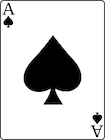
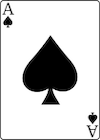
Fix two card image sizes, keep Stockpile cards face down

diff --git a/src/code/game/golf/Stockpile.java b/src/code/game/golf/Stockpile.java
@@ -1,7 +1,5 @@
 package code.game.golf;
 
-import java.awt.event.ActionEvent;
-import java.awt.event.ActionListener;
 import java.awt.event.MouseEvent;
 import java.awt.event.MouseListener;
 import java.util.ArrayList;
@@ -21,13 +19,16 @@ import code.game.gui.GUI;
  * @author Matt Ferrera
  */
 @SuppressWarnings("serial")
-public class Stockpile extends JLabel implements ActionListener, MouseListener, Pile {
+public class Stockpile extends JLabel implements MouseListener, Pile {
 
 	/**
 	 * Cards is the ArrayList containing all Card objects in the Stockpile pile.
 	 */
 	private ArrayList<Card> cards;
-	Golf game;
+	/**
+	 * The current game instance passed from Golf init
+	 */
+	private Golf game;
 	
 	/**
 	 * The Stockpile constructor takes all of the deck not disbursed to tableaus and sets it to the cards field.
@@ -93,15 +94,20 @@ public class Stockpile extends JLabel implements ActionListener, MouseListener, 
 		
 		Card card = getCard();
 		this.cards.remove(0);
-		// Set new top card face up
+		
+		// Set new top card face up & set new icon
 		if (getNumCards() != 0) {
-			getCard().setFaceUp();
 			this.setIcon(getCard().getIcon());
 		}
 		
 		return card;
 	}
 
+	/**
+	 * When clicked, the stockpile checks if it needs to flip the top
+	 * card over if it has not yet been clicked. Following cards are set
+	 * face up and are moved to the homecell pile with click.
+	 */
 	@Override
 	public void mouseClicked(MouseEvent e) {
 		if (getNumCards() == 0) {
@@ -109,42 +115,30 @@ public class Stockpile extends JLabel implements ActionListener, MouseListener, 
 			return;
 		}
 		
-		if (!getCard().isFaceUp()) {
-			getCard().setFaceUp();
-			this.setIcon(getCard().getIcon());
-			return;
-		}
+		// Set the card going to homecell pile face up
+		getCard().setFaceUp();
 		
 		this.game.getHomecell().addCard(takeCard(), true);
 	}
 
+	/**
+	 * This method is not used.
+	 */
 	@Override
-	public void mousePressed(MouseEvent e) {
-		// TODO Auto-generated method stub
-		
-	}
-
+	public void mousePressed(MouseEvent e) {}
+	/**
+	 * This method is not used.
+	 */
 	@Override
-	public void mouseReleased(MouseEvent e) {
-		// TODO Auto-generated method stub
-		
-	}
-
+	public void mouseReleased(MouseEvent e) {}
+	/**
+	 * This method is not used.
+	 */
 	@Override
-	public void mouseEntered(MouseEvent e) {
-		// TODO Auto-generated method stub
-		
-	}
-
+	public void mouseEntered(MouseEvent e) {}
+	/**
+	 * This method is not used.
+	 */
 	@Override
-	public void mouseExited(MouseEvent e) {
-		// TODO Auto-generated method stub
-		
-	}
-
-	@Override
-	public void actionPerformed(ActionEvent e) {
-		// TODO Auto-generated method stub
-		
-	}
+	public void mouseExited(MouseEvent e) {}
 }
